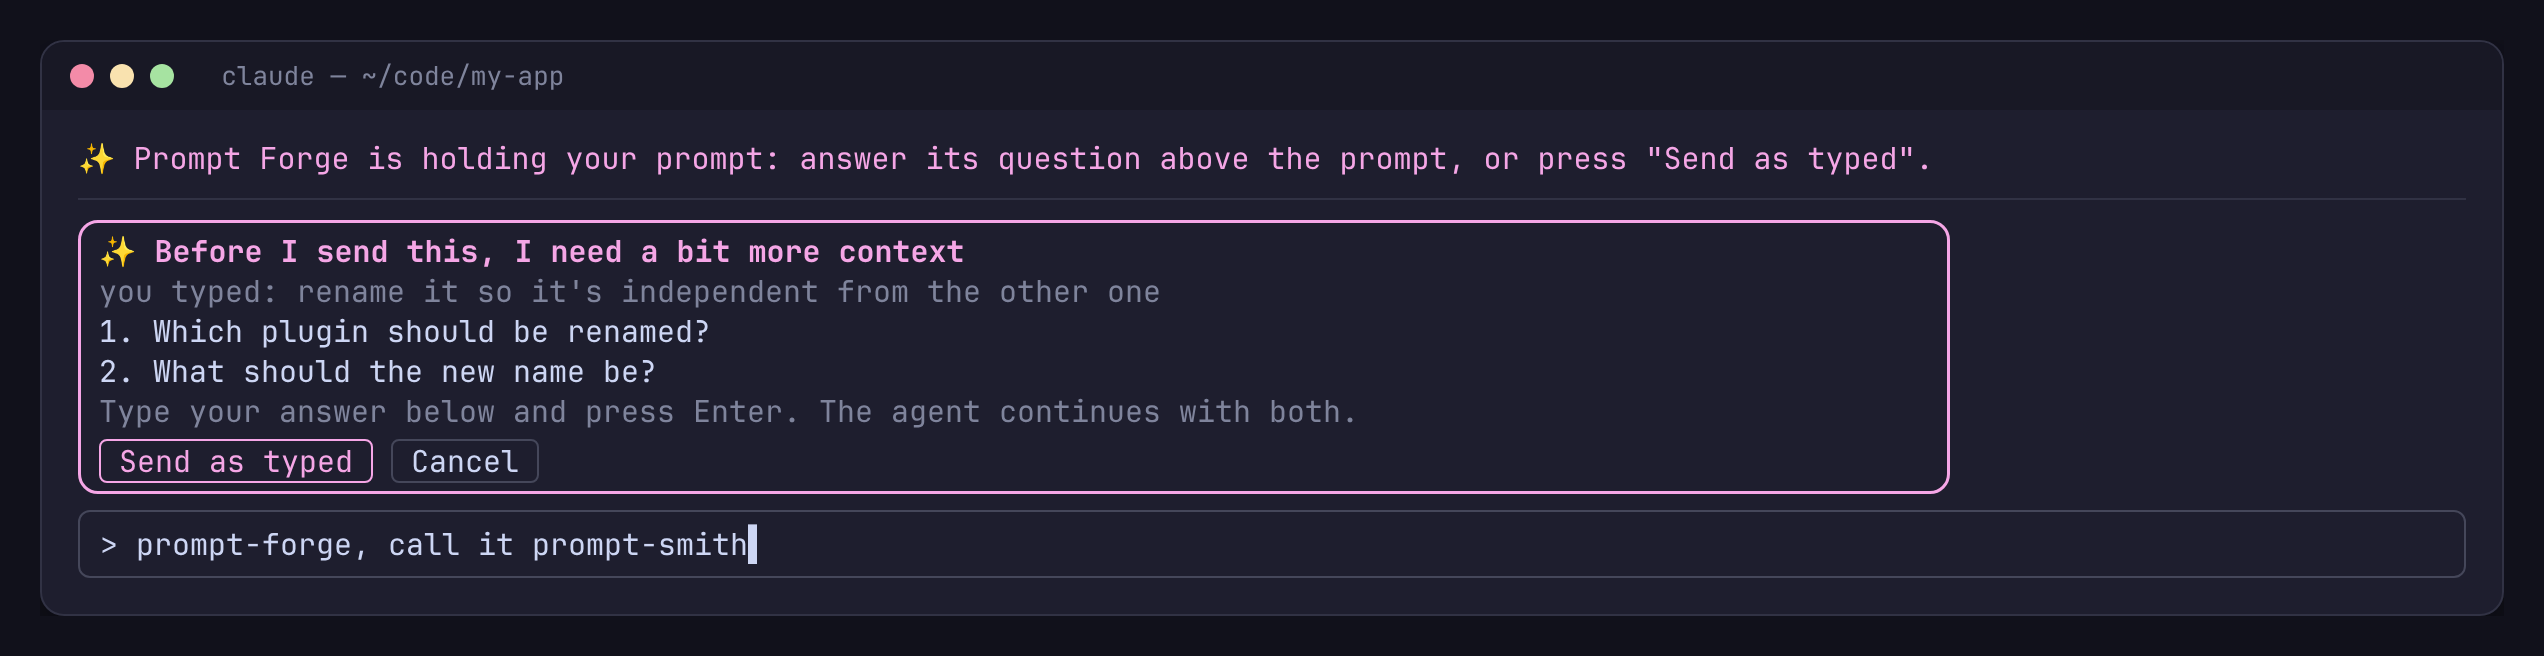
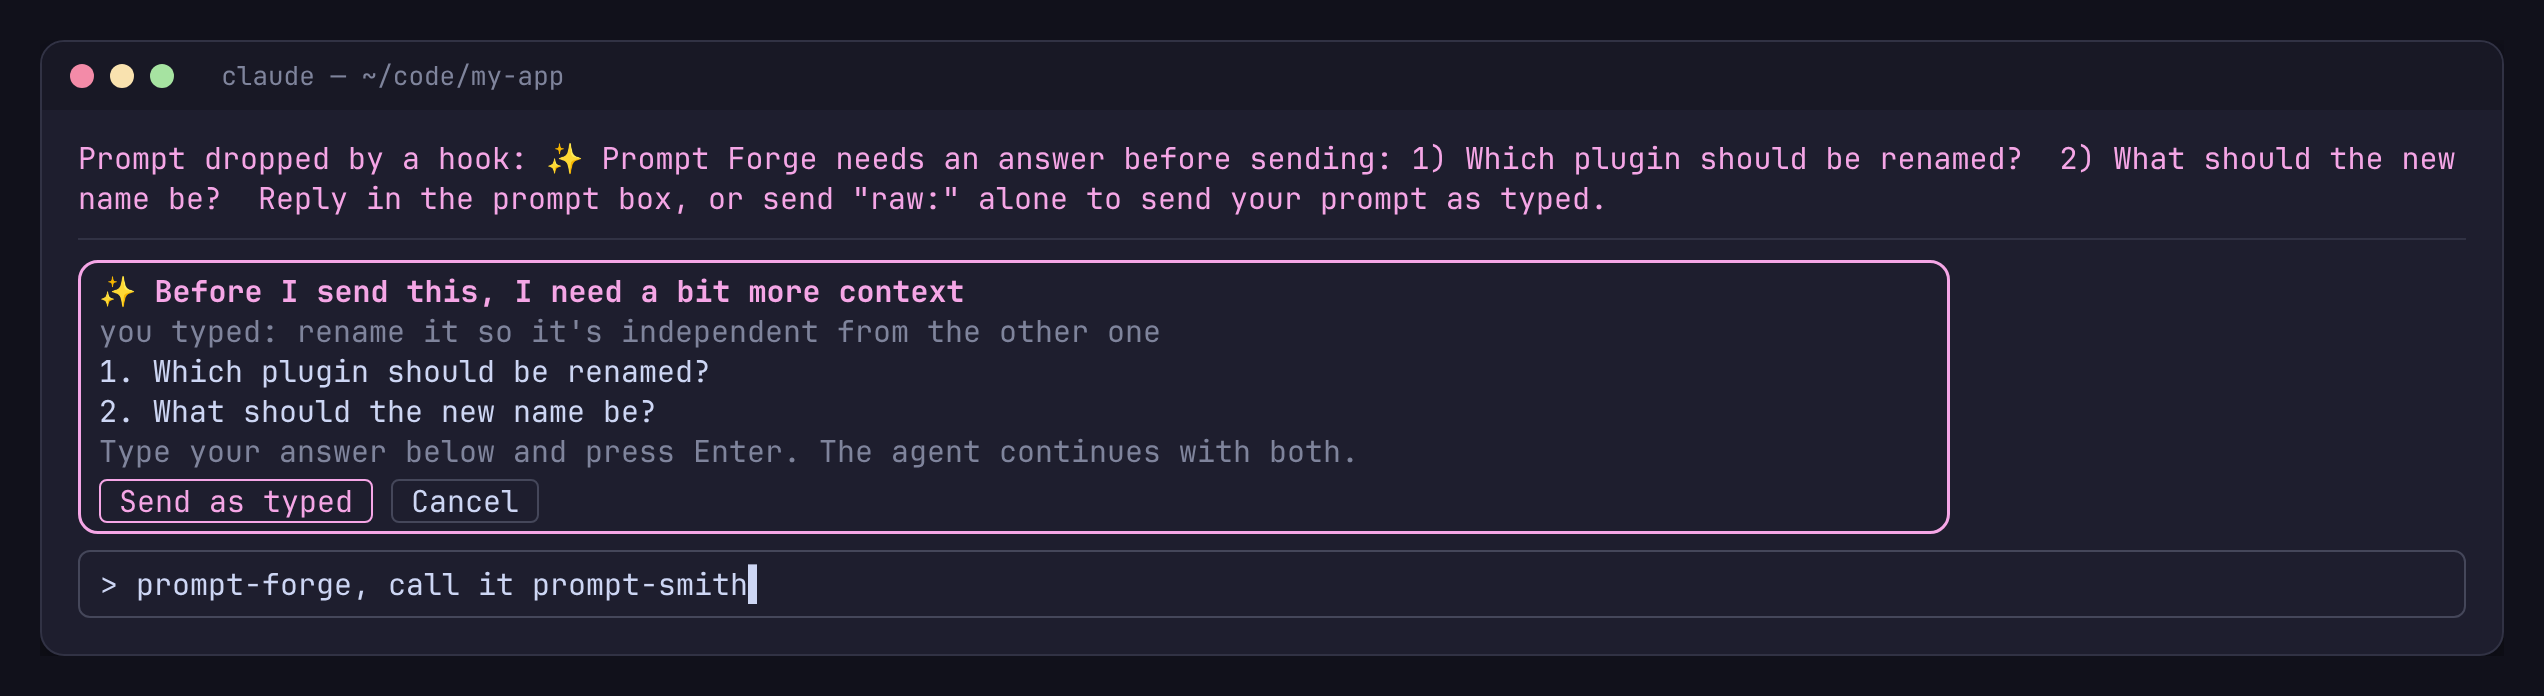
docs: re-render the ask screenshot with the 0.3.1 notice

Changed region(s): [[0.0311, 0.3354, 0.9627, 0.8841], [0.0311, 0.2134, 0.9627, 0.3049], [0.0311, 0.061, 0.2174, 0.1524]]

diff --git a/scripts/mockups/ask.html b/scripts/mockups/ask.html
@@ -1,7 +1,7 @@
-<!doctype html><html data-size="1280,520"><head><meta charset="utf-8"><link rel="stylesheet" href="style.css"></head><body>
+<!doctype html><html data-size="1280,580"><head><meta charset="utf-8"><link rel="stylesheet" href="style.css"></head><body>
 <div class="win"><div class="bar"><span class="dot" style="background:#f38ba8"></span><span class="dot" style="background:#f9e2af"></span><span class="dot" style="background:#a6e3a1"></span>&nbsp; claude — ~/code/my-app</div>
 <div class="body">
-<div class="row reason">✨ Prompt Forge needs an answer before sending: What should the new name be?  Reply in the prompt box, or send "raw:" alone to send your prompt as typed.</div>
+<div class="wrap reason">Prompt dropped by a hook: ✨ Prompt Forge needs an answer before sending: 1) Which plugin should be renamed?  2) What should the new name be?  Reply in the prompt box, or send "raw:" alone to send your prompt as typed.</div>
 <div class="sep"></div>
 <div class="card" style="margin-left:0"><div class="t">✨ Before I send this, I need a bit more context</div>
 <div class="wrap dim">you typed: rename it so it's independent from the other one</div>
